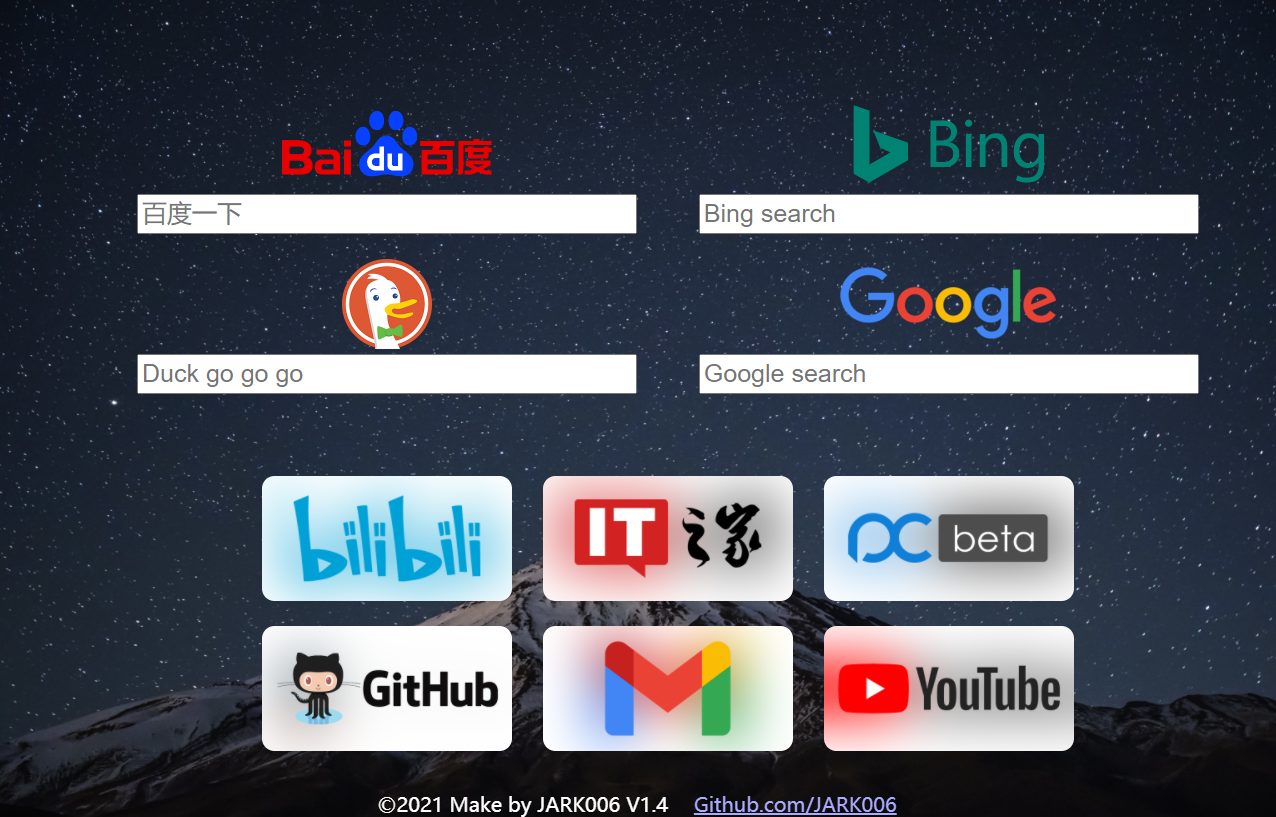
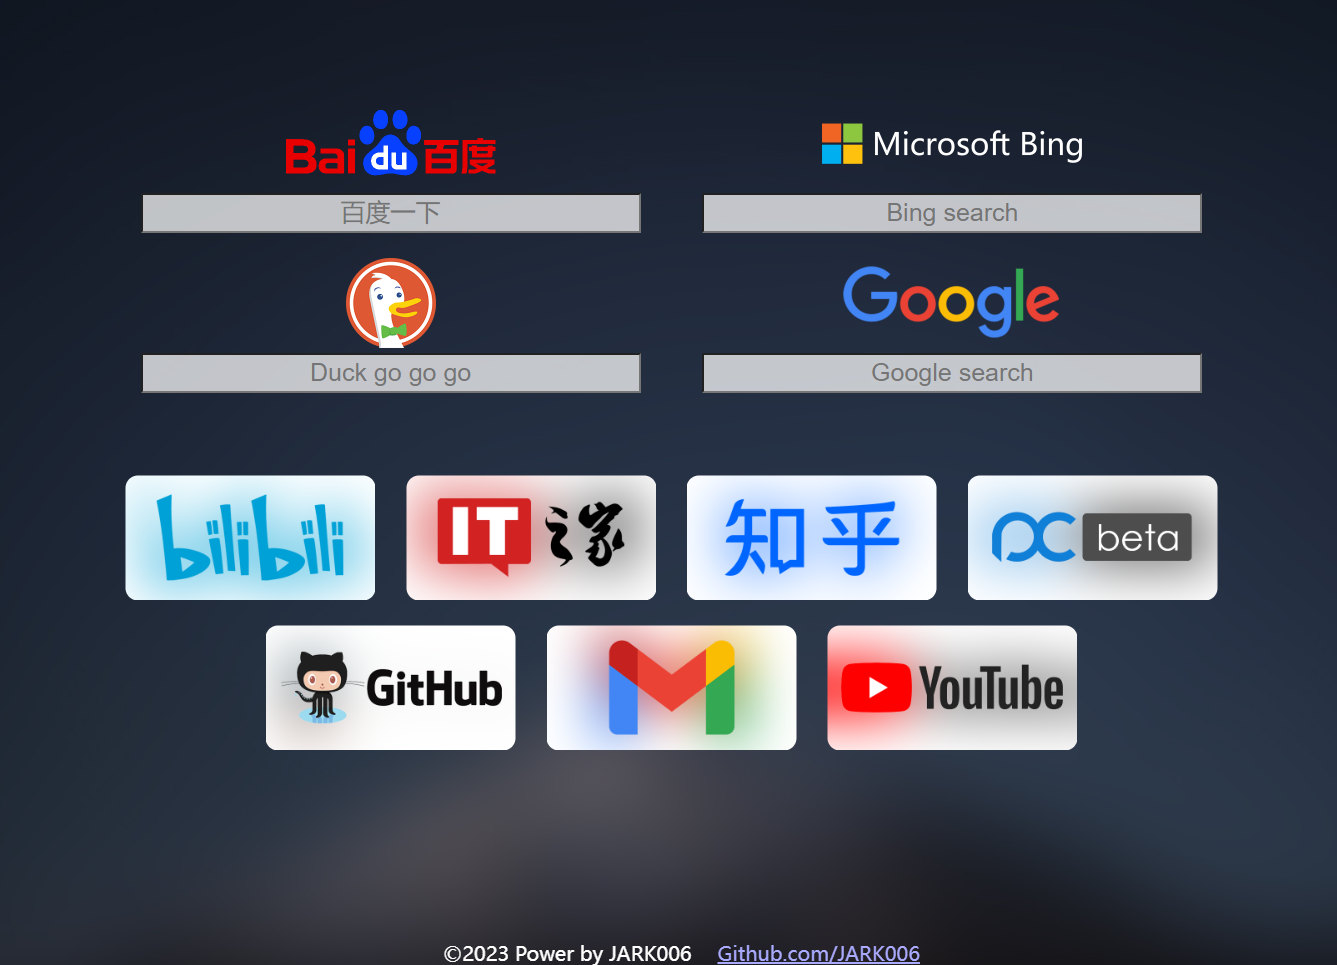
update

diff --git a/NewTab.html b/NewTab.html
@@ -46,10 +46,7 @@
             text-align: center;
         }
 
-        #div1,
-        #div2,
-        #div3,
-        #div4 {
+        .searchBox {
             display: inline-block;
         }
     </style>
@@ -63,14 +60,14 @@
 <body>
     <div>
         <div>
-            <div id="div1">
+            <div class="searchBox">
                 <a href="https://www.baidu.com/"><img src="NewTab_img/baidu.png" height="80px" alt="Baidu_Logo"></a>
                 <form name="input" target="_blank" action="https://www.baidu.com/s?" method="get">
                     <input class="input" type="text" name="wd" placeholder="百度一下">
                 </form>
             </div>
-            <div id="div1" style="width: 40px;"></div>
-            <div id="div2">
+            <div style="width: 40px; display: inline-block;"></div>
+            <div class="searchBox">
                 <a href="https://cn.bing.com/"><img src="NewTab_img/bing.png" height="80px" alt="Bing_Logo"></a>
                 <form name="input" target="_blank" action="https://cn.bing.com/search?" method="get">
                     <input class="input" type="text" name="q" placeholder="Bing search">
@@ -78,14 +75,14 @@
             </div>
         </div>
         <div>
-            <div id="div3">
+            <div class="searchBox">
                 <a href="https://start.duckduckgo.com/"><img src="NewTab_img/duckduckgo.png" height="80px" alt="Duckduckgo_Logo"></a>
                 <form name="input" target="_blank" action="https://duckduckgo.com/?" method="get">
                     <input class="input" type="text" name="q" placeholder="Duck go go go">
                 </form>
             </div>
-            <div id="div1" style="width: 40px;"></div>
-            <div id="div4">
+            <div style="width: 40px; display: inline-block;"></div>
+            <div class="searchBox">
                 <a href="https://www.google.com/"><img src="NewTab_img/google.png" height="80px" alt="Google_Logo" /></a>
                 <form name="input" target="_blank" action="https://www.google.com/search?" method="get">
                     <input class="input" type="text" name="q" placeholder="Google search">
@@ -102,8 +99,8 @@
             </div>
         </bookmark>
         <bookmark>
-            <div>
-                <!-- <a href="https://leetcode-cn.com/" ><img class="bmimg" src="NewTab_img/leetcode.png" /></a> -->
+                <div>
+                    <!-- <a href="https://leetcode-cn.com/" ><img class="bmimg" src="NewTab_img/leetcode.png" /></a> -->
                 <a href="https://github.com/jark006"><img class="bmimg" src="NewTab_img/github.png" /></a>
                 <a href="https://mail.google.com/"><img class="bmimg" src="NewTab_img/gmail.png" /></a>
                 <a href="https://www.youtube.com/"><img class="bmimg" src="NewTab_img/youtube.png" /></a>
